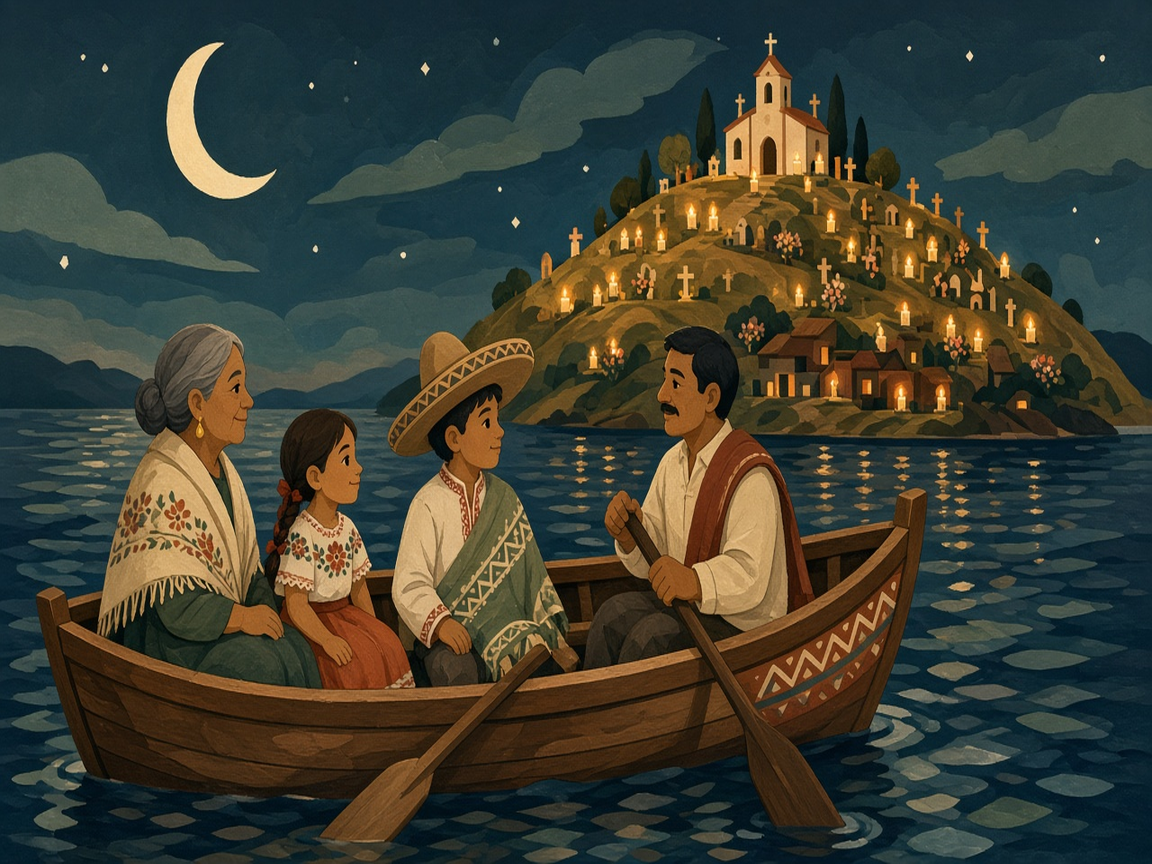
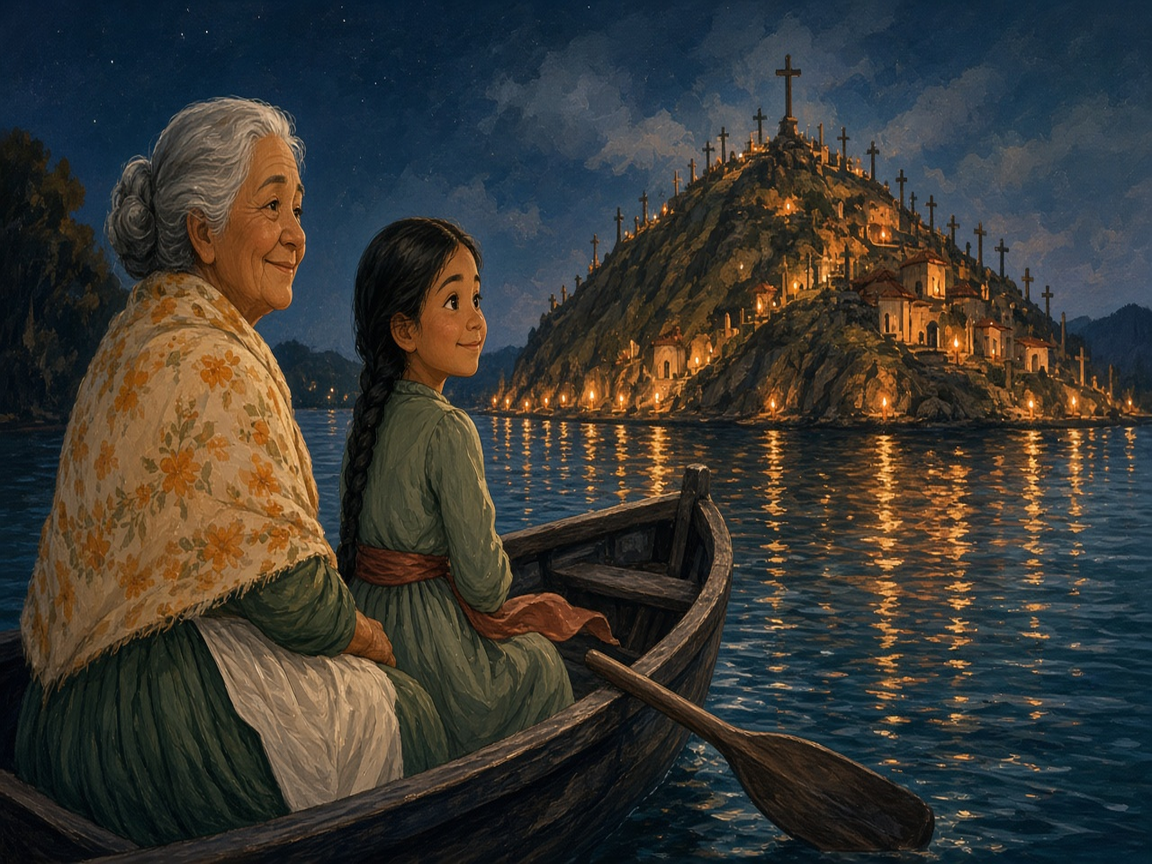
Wire Lectura story-0 niña rewrite + Brand CLEAR stills
George CLEAR: ES ¶1 is Cuando yo era niña; EN extras ¶1/¶6 are her/her.
Brand CLEAR girl + abuela stills land byte-identical at public/lectura/story-0.
¶2–¶6 ES, glossary, and quizzes stay put. Soft chrome parked.

diff --git a/src/content.test.js b/src/content.test.js
@@ -206,6 +206,28 @@ for (const s of STORIES) {
   });
 }
 
+const story0 = STORIES.find((s) => s.id === "story-0");
+assert(story0.paragraphs[0] === "Cuando yo era niña, creía que la muerte era algo triste y oscuro. Mi abuela Refugio, que nació a la orilla del lago de Pátzcuaro, pensaba exactamente lo contrario. «La muerte no viene por nosotros», me decía mientras cortaba flores de cempasúchil en el patio. «Viene a visitarnos, una vez al año, y hay que recibirla como se recibe a la familia: con comida, con música y con la casa limpia.»", "story-0 ES ¶1 is George niña stamp");
+assert(story0.paragraphs[1] === "A finales de octubre, todo el pueblo cambiaba. Los mercados se llenaban de calaveras de azúcar con nombres escritos en la frente, de pan de muerto espolvoreado con azúcar, y de montañas anaranjadas de cempasúchil. El aire olía a copal, esa resina que se quema desde tiempos prehispánicos. Mi abuela compraba todo con una lista que sabía de memoria, porque la ofrenda era un trabajo serio.", "story-0 ¶2 ES unchanged");
+assert(story0.paragraphs[2] === "El primero de noviembre armábamos el altar sobre una mesa con mantel morado. Poníamos las fotos de los difuntos: el bisabuelo Ramón con su sombrero de charro, la tía Consuelo, que murió demasiado joven. Para cada uno había algo especial. Para Ramón, un caballito de tequila y sus cigarros. Para Consuelo, dulce de calabaza, porque le encantaba. Las velas marcaban el camino, y un sendero de pétalos llegaba hasta la puerta. «Es para que no se pierdan», explicaba mi abuela. «La luz los guía, pero el olor los trae a casa.»", "story-0 ¶3 ES unchanged");
+assert(story0.paragraphs[3] === "La noche del dos de noviembre no dormíamos. Cruzábamos el lago en lancha hacia la isla de Janitzio, donde el panteón se convertía en un mar de velas. Las familias se sentaban junto a las tumbas a platicar, a comer tamales, a contar historias de los que ya no estaban. Nadie lloraba. Bueno, casi nadie. Se reía, se recordaba, se cantaba bajito.", "story-0 ¶4 ES unchanged");
+assert(story0.paragraphs[4] === "Una vez le pregunté a mi abuela si de verdad creía que los muertos regresaban. Se quedó callada un momento. «Mira», me dijo por fin, «mientras digamos sus nombres, no se mueren del todo. El olvido es la única muerte verdadera.»", "story-0 ¶5 ES unchanged");
+assert(story0.paragraphs[5] === "Mi abuela murió hace seis años. Ahora soy yo quien arma la ofrenda, con mis hijos. Pongo su foto junto a la de Ramón y la de Consuelo, con una taza de café de olla, porque le encantaba. Y cada noviembre, cuando enciendo las velas, espero que el olor del cempasúchil la traiga a casa. Ojalá que, cuando me toque a mí, alguien diga mi nombre también.", "story-0 ¶6 ES unchanged");
+assert(!/Cuando yo era niño,/.test(story0.paragraphs.join("\n")), "story-0 ES is not niño under girl stills");
+assert(story0.questions[0].prompt === "Según la abuela, ¿qué trae a los muertos hasta la casa?" && story0.questions[0].answer === "El olor del cempasúchil", "story-0 quiz 1 unchanged");
+assert(story0.questions[1].prompt === "¿Dónde pasaba la familia la noche del 2 de noviembre?" && story0.questions[1].answer === "En el panteón de la isla de Janitzio", "story-0 quiz 2 unchanged");
+assert(story0.questions[2].prompt === "Para la abuela, ¿cuál es «la única muerte verdadera»?" && story0.questions[2].answer === "El olvido", "story-0 quiz 3 unchanged");
+const story0Src = readFileSync(join(dirname(fileURLToPath(import.meta.url)), "App.jsx"), "utf8");
+const STORY_EXTRAS = Function("D", `"use strict"; return (${extractConst(story0Src, "STORY_EXTRAS")});`)({
+  green: "#58CC02", greenDark: "#46A302", purple: "#CE82FF", purpleDark: "#A567CC",
+  blue: "#1CB0F6", blueDark: "#1899D6", gold: "#FFC800", goldDark: "#E6A800",
+});
+const story0Extra = STORY_EXTRAS["story-0"];
+assert(story0Extra.en[0] === "When the narrator was a child, her grandmother taught her that death visits like family and should be welcomed with food, music, and a clean house.", "story-0 EN extras ¶1 is her/her");
+assert(story0Extra.en[5] === "Now the narrator builds the ofrenda for her own grandmother and hopes someone will say her name one day too.", "story-0 EN extras ¶6 is her/her");
+assert(story0Extra.en[1] === "By late October the town changed: markets filled with sugar skulls, pan de muerto, marigolds, copal, and everything needed for a serious ofrenda.", "story-0 EN extras ¶2 unchanged");
+assert(!story0Extra.en.some((line) => /his grandmother taught him|for his own grandmother|say his name/.test(line)), "story-0 EN extras have no niño leftover");
+
 assert(Array.isArray(MISSIONS) && MISSIONS.length > 0, "MISSIONS missing");
 const missionIds = new Set();
 for (const m of MISSIONS) {
@@ -1361,19 +1383,22 @@ for (const [mood, rel, bytes, md5] of cubetasProps) {
   assert(createHash("md5").update(buf).digest("hex") === md5, `${mood} clay prop stays the wired PNG`);
 }
 assert(readFileSync(appleTouch).subarray(0, 8).equals(pngMagic), "apple-touch-icon.png is a real PNG");
-for (const slot of ["p0", "p1", "p2"]) {
+const clearedStory0 = [
+  ["p0", 1466181, "1abec4c724889e8df09e7ca122f3c345"],
+  ["p1", 1891656, "e77f0a7198f7d64d50d21a367b33c69b"],
+  ["p2", 1176493, "79110ac7359474f5891616e64583b325"],
+  ["p3", 1614527, "8dcea3dfe9ca6365199be4011ce58af9"],
+  ["p4", 1704760, "3698f167dd2c222c47fbbd15f185d0a5"],
+  ["p5", 1751708, "77747581da74c1eb398612ed132e3b67"],
+];
+for (const [slot, bytes, md5] of clearedStory0) {
   const stillPng = join(repoRoot, "public", "lectura", "story-0", `${slot}.png`);
   assert(existsSync(stillPng), `story-0 ${slot} lives at public/lectura/story-0/${slot}.png`);
-  assert(readFileSync(stillPng).subarray(0, 8).equals(pngMagic), `lectura/story-0/${slot}.png is a real PNG, not JPEG-named-.png`);
-}
-const clearedStory0 = {
-  p0: "1abec4c724889e8df09e7ca122f3c345",
-  p1: "b9e27f5d22f442a6c2b9861e50d85394",
-  p2: "79110ac7359474f5891616e64583b325",
-};
-for (const [slot, md5] of Object.entries(clearedStory0)) {
-  const stillPng = join(repoRoot, "public", "lectura", "story-0", `${slot}.png`);
-  assert(createHash("md5").update(readFileSync(stillPng)).digest("hex") === md5, `story-0 ${slot} stays the CLEARed live PNG`);
+  const buf = readFileSync(stillPng);
+  assert(buf.subarray(0, 8).equals(pngMagic), `lectura/story-0/${slot}.png is a real PNG, not JPEG-named-.png`);
+  assert(buf.length === bytes, `lectura/story-0/${slot}.png is ${bytes} bytes`);
+  assert(createHash("md5").update(buf).digest("hex") === md5, `story-0 ${slot} stays the Brand CLEAR live PNG`);
+  assert(buf.readUInt32BE(16) === 1152 && buf.readUInt32BE(20) === 864, `story-0 ${slot} is 1152×864`);
 }
 const clearedStory1 = [
   ["p0", 1930745, "957ba1b9b27b4a237bec149cd95bc211"],
@@ -1392,9 +1417,6 @@ for (const [slot, bytes, md5] of clearedStory1) {
   assert(createHash("md5").update(buf).digest("hex") === md5, `story-1 ${slot} stays the Brand CLEAR live PNG`);
 }
 const waveAStills = [
-  ["story-0", "p3", 1469216, "583d0310b82f67b6bcdcda40c05bed31"],
-  ["story-0", "p4", 1677951, "736e8d22ffc71c95f08c3d6a05a1d120"],
-  ["story-0", "p5", 1703462, "2c23e776f3a8d39e052888571d6489e7"],
   ["story-2", "p0", 975514, "0d674ba89e02893bd1f30747b213b27b"],
   ["story-2", "p1", 967398, "9c89f2d8db6407e446f72af114939a6d"],
   ["story-2", "p2", 1098685, "8a95b9e4141ea302f6cc4f391216c55b"],

diff --git a/src/App.jsx b/src/App.jsx
@@ -2316,7 +2316,7 @@ const STORIES = [
     title: "La noche en que vuelven",
     subtitle: "Día de Muertos en Pátzcuaro",
     paragraphs: [
-      "Cuando yo era niño, creía que la muerte era algo triste y oscuro. Mi abuela Refugio, que nació a la orilla del lago de Pátzcuaro, pensaba exactamente lo contrario. «La muerte no viene por nosotros», me decía mientras cortaba flores de cempasúchil en el patio. «Viene a visitarnos, una vez al año, y hay que recibirla como se recibe a la familia: con comida, con música y con la casa limpia.»",
+      "Cuando yo era niña, creía que la muerte era algo triste y oscuro. Mi abuela Refugio, que nació a la orilla del lago de Pátzcuaro, pensaba exactamente lo contrario. «La muerte no viene por nosotros», me decía mientras cortaba flores de cempasúchil en el patio. «Viene a visitarnos, una vez al año, y hay que recibirla como se recibe a la familia: con comida, con música y con la casa limpia.»",
       "A finales de octubre, todo el pueblo cambiaba. Los mercados se llenaban de calaveras de azúcar con nombres escritos en la frente, de pan de muerto espolvoreado con azúcar, y de montañas anaranjadas de cempasúchil. El aire olía a copal, esa resina que se quema desde tiempos prehispánicos. Mi abuela compraba todo con una lista que sabía de memoria, porque la ofrenda era un trabajo serio.",
       "El primero de noviembre armábamos el altar sobre una mesa con mantel morado. Poníamos las fotos de los difuntos: el bisabuelo Ramón con su sombrero de charro, la tía Consuelo, que murió demasiado joven. Para cada uno había algo especial. Para Ramón, un caballito de tequila y sus cigarros. Para Consuelo, dulce de calabaza, porque le encantaba. Las velas marcaban el camino, y un sendero de pétalos llegaba hasta la puerta. «Es para que no se pierdan», explicaba mi abuela. «La luz los guía, pero el olor los trae a casa.»",
       "La noche del dos de noviembre no dormíamos. Cruzábamos el lago en lancha hacia la isla de Janitzio, donde el panteón se convertía en un mar de velas. Las familias se sentaban junto a las tumbas a platicar, a comer tamales, a contar historias de los que ya no estaban. Nadie lloraba. Bueno, casi nadie. Se reía, se recordaba, se cantaba bajito.",
@@ -2995,12 +2995,12 @@ const STORY_EXTRAS = {
     collectible: { es: "Vela de ofrenda", en: "Ofrenda candle" },
     keyWords: ["muerte", "muerto", "cempasúchil", "ofrenda", "panteón", "platicar", "olvido", "ojalá"],
     en: [
-      "When the narrator was a child, his grandmother taught him that death visits like family and should be welcomed with food, music, and a clean house.",
+      "When the narrator was a child, her grandmother taught her that death visits like family and should be welcomed with food, music, and a clean house.",
       "By late October the town changed: markets filled with sugar skulls, pan de muerto, marigolds, copal, and everything needed for a serious ofrenda.",
       "On November 1 they built the altar with photos, candles, paths of petals, and offerings for each dead relative.",
       "On November 2 they crossed to Janitzio, where families sat by graves telling stories, eating, laughing, and remembering.",
       "The grandmother says the dead return while their names are spoken; forgetting is the only true death.",
-      "Now the narrator builds the ofrenda for his own grandmother and hopes someone will say his name one day too.",
+      "Now the narrator builds the ofrenda for her own grandmother and hopes someone will say her name one day too.",
     ],
     checkpoints: [
       { q: "What does the grandmother believe about death?", a: "It visits once a year", choices: ["It visits once a year", "It never returns", "It only brings sadness"] },

diff --git a/src/flows.test.jsx b/src/flows.test.jsx
@@ -939,9 +939,14 @@ describe("simulated learner flows", () => {
     await waitFor(() => expect(screen.getByTestId("story-tip")).toBeTruthy());
     expect(screen.getByTestId("story-tip").textContent).toMatch(/Lee el párrafo\. Toca una palabra solo si te frena\./);
     expect(screen.getByTestId("lectura-paragraph-first")).toBeTruthy();
+    expect(screen.getByTestId("lectura-paragraph-first").textContent).toMatch(/Cuando yo era niña,/);
+    expect(screen.getByTestId("lectura-paragraph-first").textContent).not.toMatch(/Cuando yo era niño,/);
     const still = screen.getByTestId("lectura-still-0");
     expect(still.getAttribute("src")).toBe(`${import.meta.env.BASE_URL}lectura/story-0/p0.png`);
     await waitFor(() => expect(screen.getAllByText(/cempasúchil/).length).toBeGreaterThan(0));
+    await user.click(screen.getByRole("button", { name: /^Bilingüe$/ }));
+    expect(document.body.textContent).toMatch(/her grandmother taught her/);
+    expect(document.body.textContent).not.toMatch(/his grandmother taught him/);
     const storyWord = [...document.querySelectorAll("span")].find((el) =>
       el.textContent === "cempasúchil" && el.style.cursor === "pointer");
     expect(storyWord).toBeTruthy();

diff --git a/HANDOFF.md b/HANDOFF.md
@@ -2,6 +2,16 @@
 
 Running log between audits and execution. Newest entry first. Keep each entry short.
 
+## 2026-09-19 (Lectura story-0 niña + Brand CLEAR stills)
+
+**What changed**
+- App.jsx `story-0` ES ¶1 is George niña stamp (`Cuando yo era niña,`). EN extras ¶1 / ¶6 are her/her. ¶2–¶6 ES + glossary + quizzes untouched.
+- `public/lectura/story-0/p0.png`–`p5.png` are the Brand CLEAR stills (1152×864 RGB). p0/p2 kept; p1/p3–p5 regen girl + abuela. Byte-identical to the attached pack.
+- Soft chrome parked. Hangman / Jeopardy / Memory / declutter not touched.
+
+**Why**
+- Hand CLEAR: do not ship niño copy under girl stills. Wire stills + niña rewrite together.
+
 ## 2026-09-19 (Lectura story-1 Brand CLEAR stills)
 
 **What changed**
